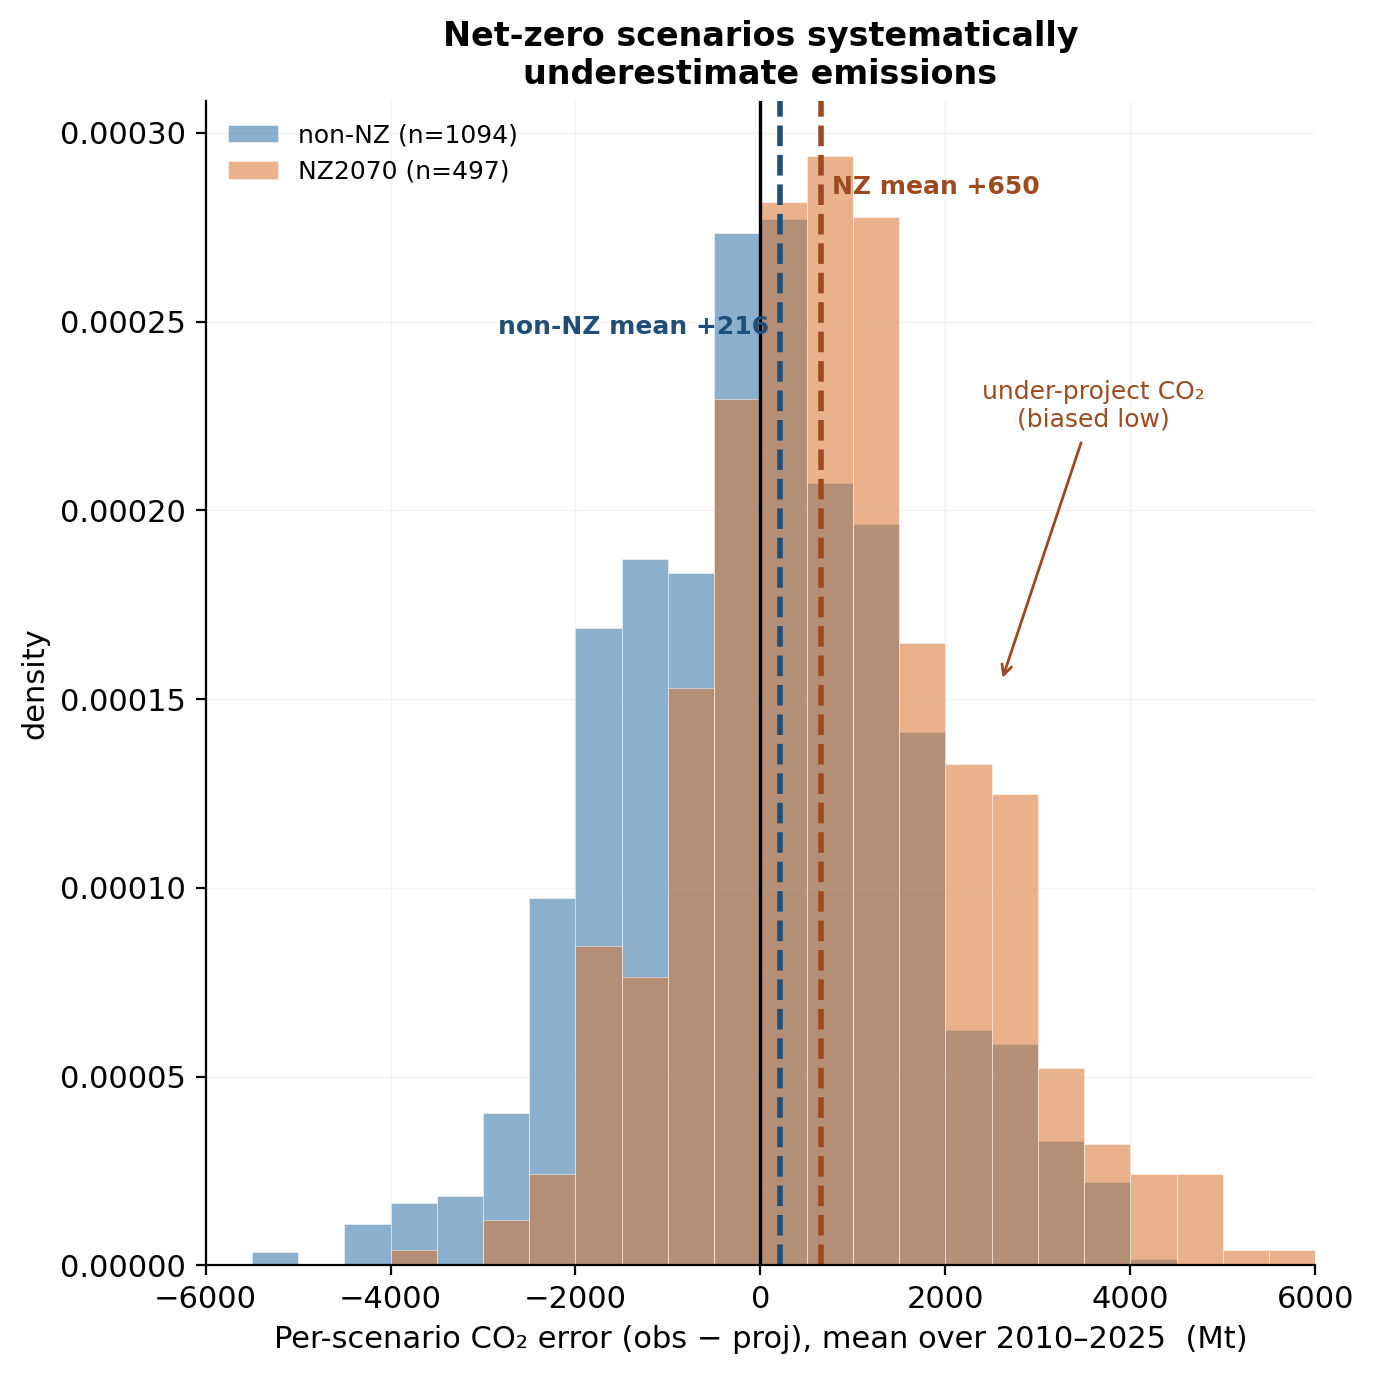
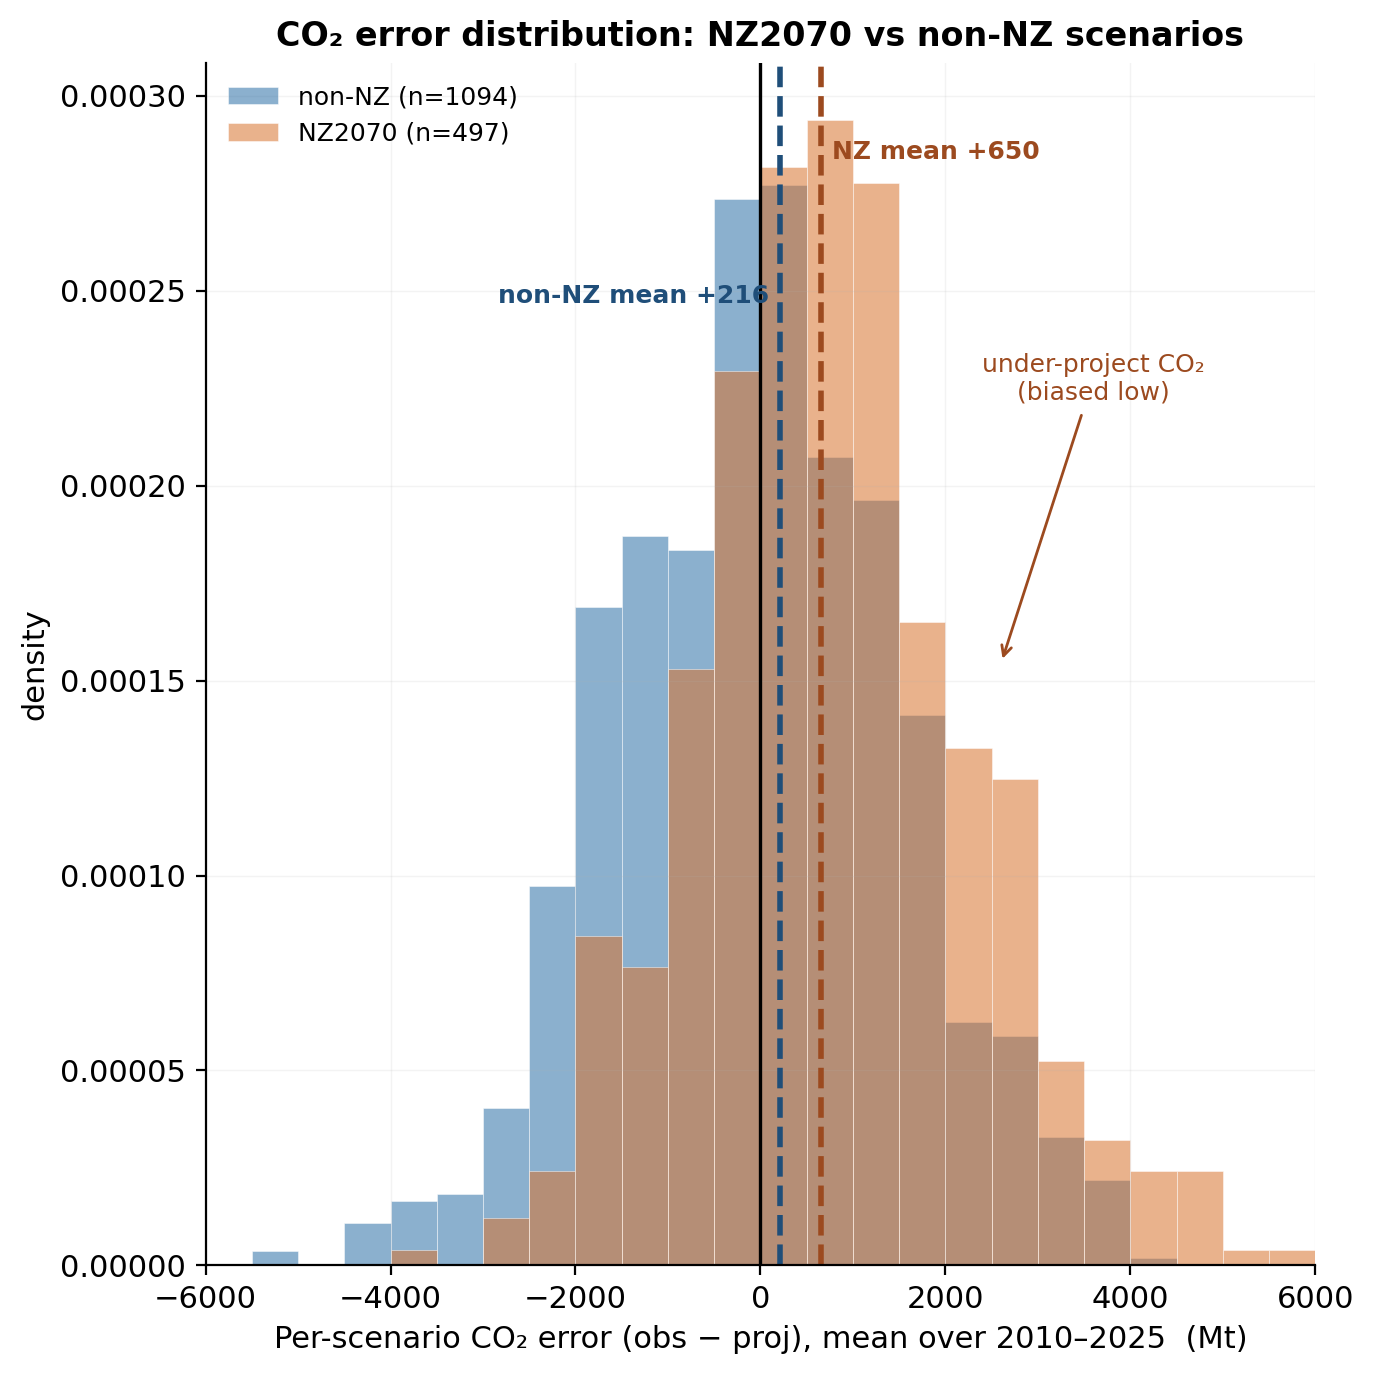
Final presentation figures: neutral titles, original Wright log

diff --git a/scripts/presentation_figures.py b/scripts/presentation_figures.py
@@ -62,12 +62,23 @@ years_num = [int(y) for y in YEARS_PROJ if y in co2.columns]
 mat_nz = co2[co2["nz2070"]][[str(y) for y in years_num]].values
 mat_ot = co2[~co2["nz2070"]][[str(y) for y in years_num]].values
 
-for pct in [5, 10, 25]:
-    ax.fill_between(years_num, np.nanpercentile(mat_nz, pct, axis=0), np.nanpercentile(mat_nz, 100-pct, axis=0), color=C_NZ, alpha=0.08)
-    ax.fill_between(years_num, np.nanpercentile(mat_ot, pct, axis=0), np.nanpercentile(mat_ot, 100-pct, axis=0), color=C_OT, alpha=0.08)
+# Interpolate to smooth the sawtooth
+from scipy.interpolate import interp1d
+years_smooth = np.arange(min(years_num), max(years_num) + 1)
 
-ax.plot(years_num, np.nanmedian(mat_nz, axis=0), color=C_NZ, lw=2, label=f"NZ2070 median (n={len(mat_nz)})")
-ax.plot(years_num, np.nanmedian(mat_ot, axis=0), color=C_OT, lw=2, label=f"non-NZ median (n={len(mat_ot)})")
+for pct in [5, 10, 25]:
+    for mat, color in [(mat_nz, C_NZ), (mat_ot, C_OT)]:
+        lo = np.nanpercentile(mat, pct, axis=0)
+        hi = np.nanpercentile(mat, 100 - pct, axis=0)
+        f_lo = interp1d(years_num, lo, kind='cubic', fill_value='extrapolate')
+        f_hi = interp1d(years_num, hi, kind='cubic', fill_value='extrapolate')
+        ax.fill_between(years_smooth, f_lo(years_smooth), f_hi(years_smooth), color=color, alpha=0.08)
+
+for mat, color, label in [(mat_nz, C_NZ, f"NZ2070 median (n={len(mat_nz)})"),
+                           (mat_ot, C_OT, f"non-NZ median (n={len(mat_ot)})")]:
+    med = np.nanmedian(mat, axis=0)
+    f_med = interp1d(years_num, med, kind='cubic', fill_value='extrapolate')
+    ax.plot(years_smooth, f_med(years_smooth), color=color, lw=2, label=label)
 ax.plot([int(y) for y in OBS_CO2], list(OBS_CO2.values()), "ko-", ms=8, lw=2.5, zorder=10, label="Observed (GCB 2025)")
 ax.set_xlabel("Year"); ax.set_ylabel("Mt CO₂/yr")
 ax.set_title("CO\u2082 emissions: SCI ensemble vs observed 2010\u20132025")